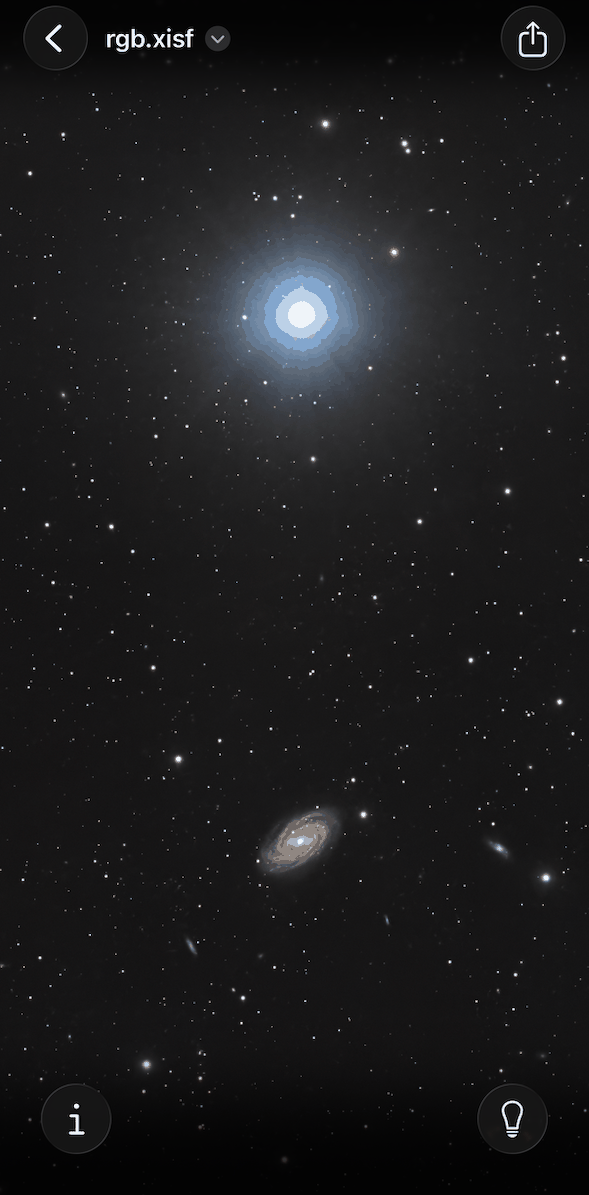
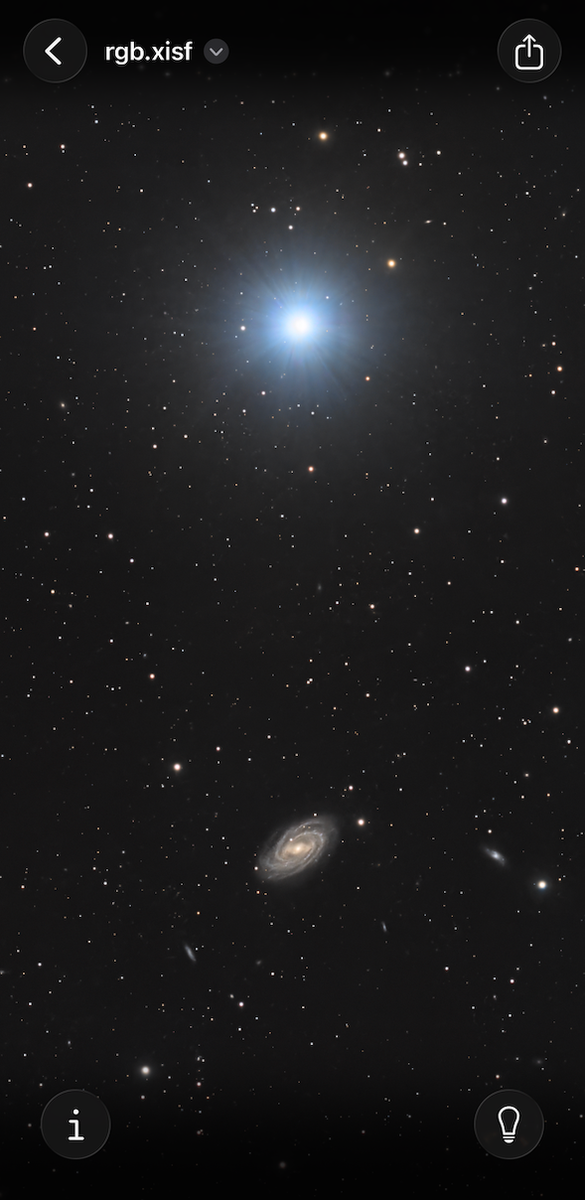
View guide: full-quality viewer shot + the info-sheet capture
Replace the over-quantized viewer screenshot with Aaron's re-export,
processed losslessly this time (resize to the 1200px cap only — no
palette quantization; photographic content keeps full quality, ~624K).
Add the recaptured info sheet to the Image info section.  All four
sections are now illustrated.

diff --git a/docs/en/view.md b/docs/en/view.md
@@ -42,6 +42,8 @@ already-stretched results.
 
 ## Image info
 
+![The info sheet: target details, a star chart of the pointing, and observatory information](images/view/info.png)
+
 Tap :sf:info: (iPhone) or open the sidebar (iPad) for everything the
 file's header declares, in two tabs.
 
